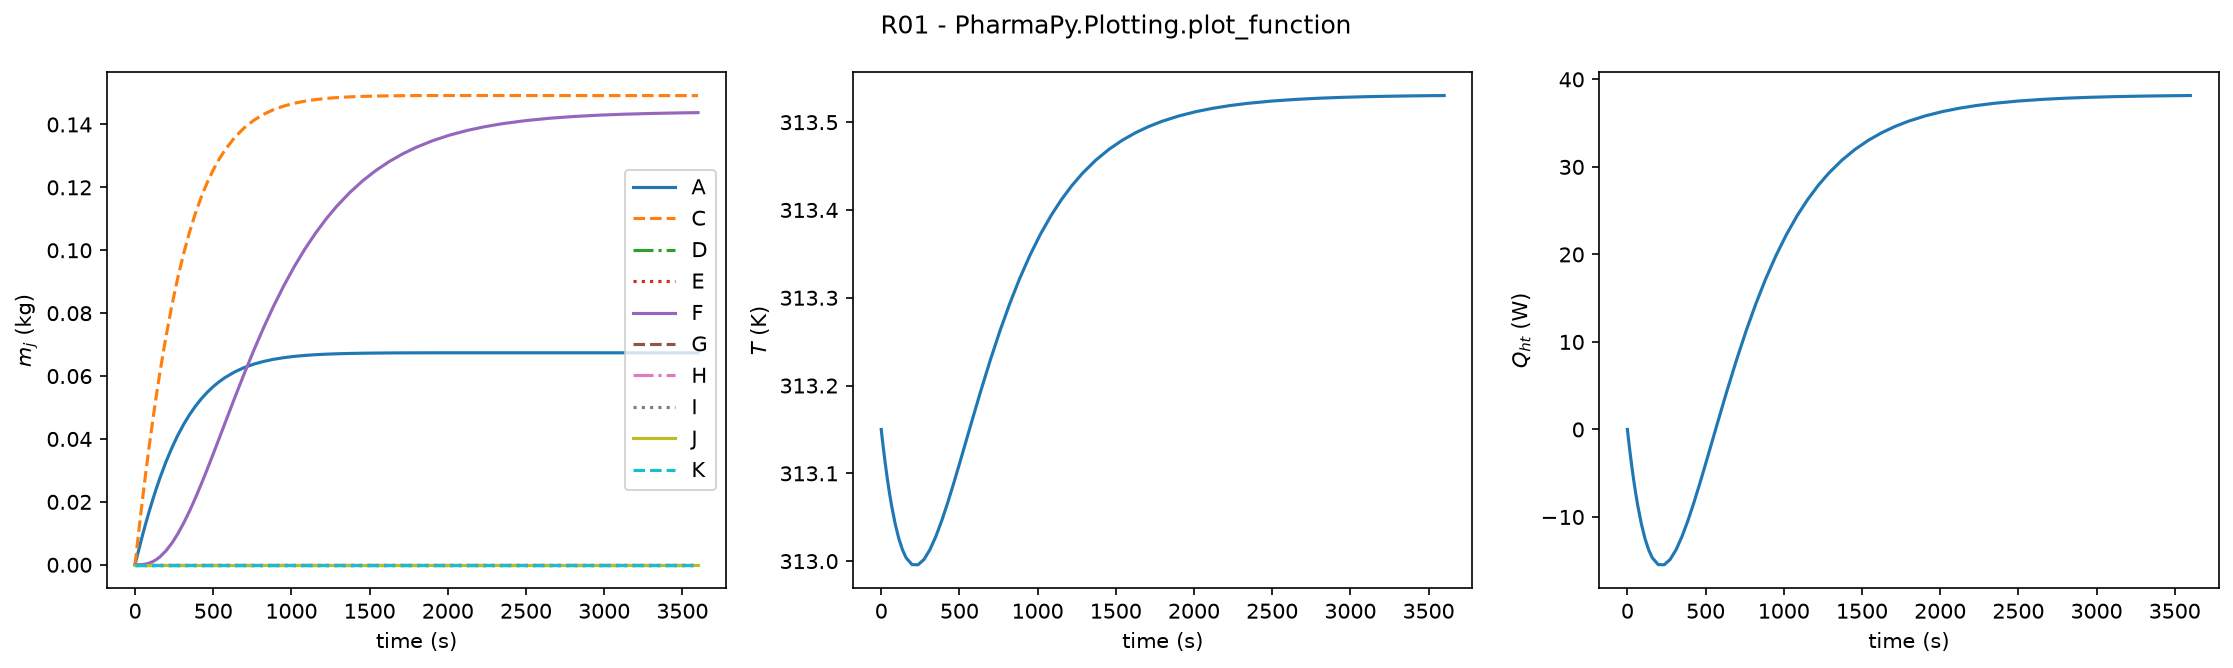
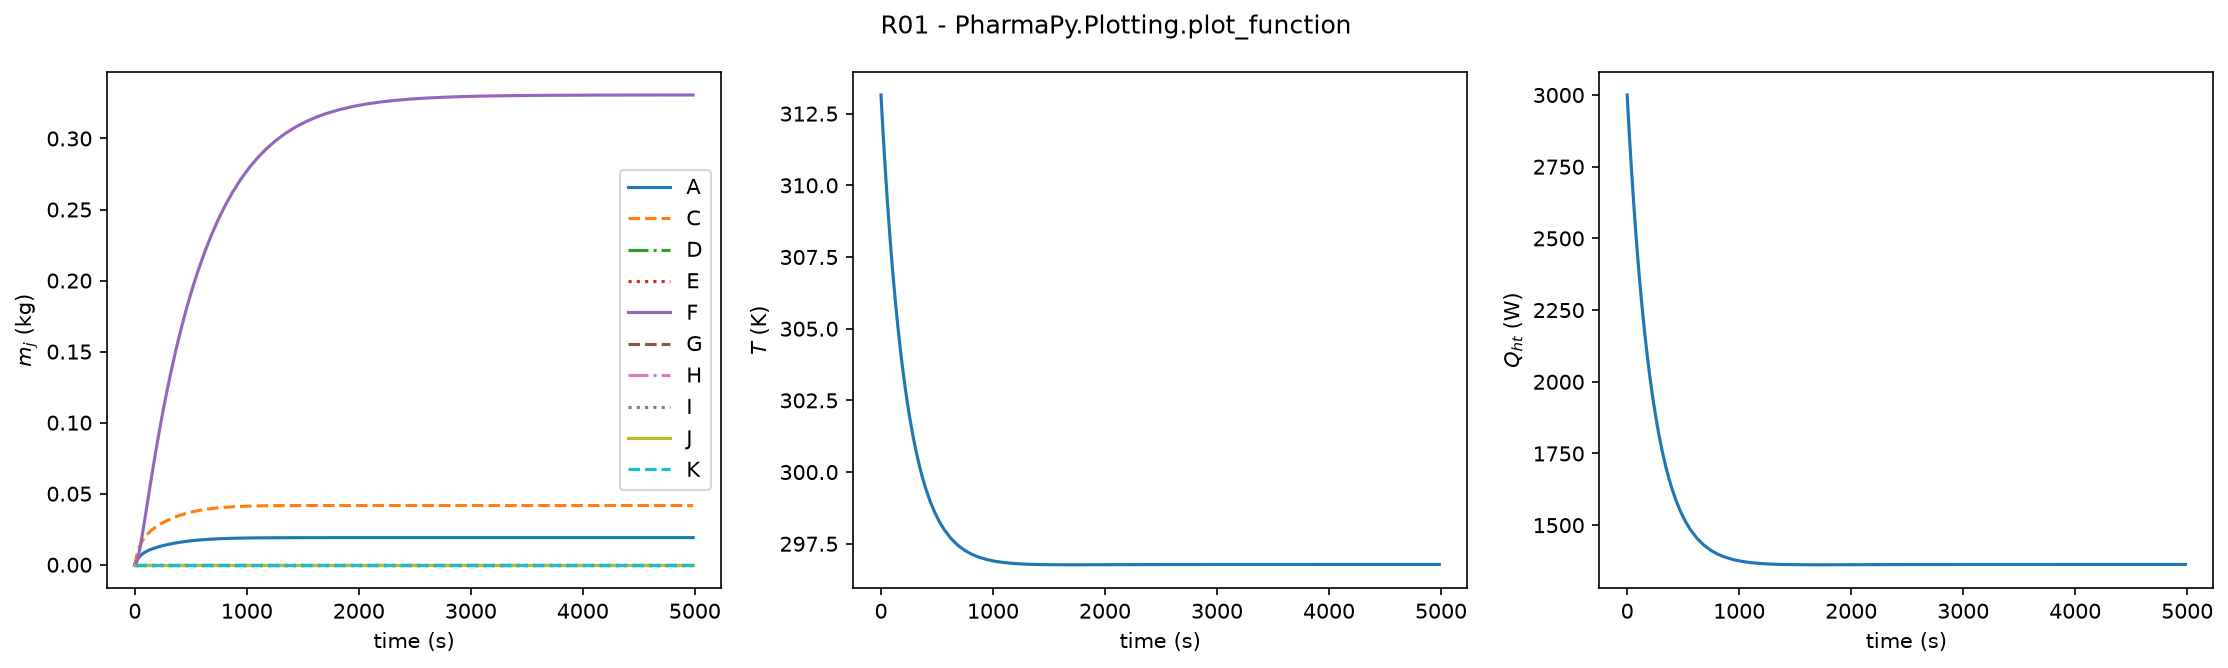
working R01H without specs

diff --git a/Project work/R01H.py/R01H.py b/Project work/R01H.py/R01H.py
@@ -69,9 +69,10 @@ DEFAULT_DATABASE_PATH = HERE / "compound_databaseActual.json"
 RESULTS_DIR = HERE / "results"
 
 # ---------------------------------------------------------------- settings
-REACTIONS = ["A + C --> F"]
+REACTIONS = ["2 A + C --> F"]
 RATE_CONSTANTS = np.array([1.0e-2])  # L/mol/s, at KINETICS_TEMP_REF
 ACTIVATION_ENERGIES = np.array([4.0e4])  # J/mol
+PARAMS_F_DUMMY = np.array([[1.0, 1.0]])
 KINETICS_TEMP_REF = 25+273.15 # K, rate constants above are quoted here
 HEAT_OF_REACTION = -3.0e3  # J/mol, negative = exothermic
 
@@ -83,7 +84,7 @@ FEED_TEMPERATURE = 313.15  # K
 FEED_A = {"A": 0.0207}  # mass fraction, ~0.33 mol/L of A
 FEED_B = {"C": 0.0459}  # mass fraction, ~0.33 mol/L of C
 
-REACTOR_MASS = 10.0  # kg, initial charge (~0.01 m**3 of water)
+REACTOR_VOLUME = 0.01  # m**3, initial liquid volume
 REACTOR_DIAMETER = 0.2  # m, jacket area = 4 V / D
 REACTOR_H_CONV = 1000.0  # W/m**2/K, vessel side
 INITIAL_TEMPERATURE = 313.15  # K
@@ -93,15 +94,38 @@ COOLANT_MASS_FLOW = 0.1  # kg/s
 COOLANT_TEMPERATURE = 10+273.15  # K
 COOLANT_H_CONV = 1000.0  # W/m**2/K, jacket side
 
-# 7.2 residence times: long enough that the end of the run is a steady
-# state (accumulation below STEADY_STATE_TOL of the throughput).
-RUNTIME = 3600.0  # s
+# Run for ten residence times so the result reaches the intended steady-state
+# region even when the reactor volume or feed flow rates change.
+NUM_RESIDENCE_TIMES = 10.0
 STEADY_STATE_TOL = 1.0e-2  # accumulation / inlet mass flow, per species
 
 # Validated categorical slots 1-4 (blue, orange, aqua, yellow).
 SERIES_COLORS = ("#2a78d6", "#eb6834", "#1baf7a", "#eda100")
 TEXT_PRIMARY = "#0b0b0b"
 TEXT_MUTED = "#52514e"
+
+
+def custom_rate_model(
+    conc: np.ndarray,
+    params_f: np.ndarray,
+) -> np.ndarray:
+    """Return ``exp(-[A]) [C]`` for the custom reaction model."""
+    conc = np.asarray(conc)
+    rate = np.exp(-conc[..., 0]) * conc[..., 1]
+    return rate[..., np.newaxis]
+
+
+def custom_rate_model_derivative(
+    conc: np.ndarray,
+    params_f: np.ndarray,
+) -> np.ndarray:
+    """Derivative of the custom rate model with respect to concentrations."""
+    conc = np.asarray(conc)
+    factor = np.exp(-conc[..., 0])
+    derivative = np.zeros(conc.shape[:-1] + (1, conc.shape[-1]))
+    derivative[..., 0, 0] = -factor * conc[..., 1]
+    derivative[..., 0, 1] = factor
+    return derivative[0] if conc.ndim == 1 else derivative
 
 
 # ---------------------------------------------------------------- builders
@@ -175,6 +199,46 @@ def make_feed(
         name_solv=solvent_name,
     )
 
+
+def build_kinetics(database_path: Path) -> RxnKinetics:
+    """Create the configured kinetics model across PharmaPy versions.
+
+    Some PharmaPy releases reference ``params_f`` before assigning it when a
+    custom kinetic model is supplied. The built-in model initializes the same
+    parameter state correctly, so its callbacks can be replaced after
+    construction for those releases.
+    """
+    kinetics_kwargs = dict(
+        path=str(database_path),
+        rxn_list=REACTIONS,
+        k_params=RATE_CONSTANTS,
+        ea_params=ACTIVATION_ENERGIES,
+        params_f=PARAMS_F_DUMMY,
+        df_dstates=custom_rate_model_derivative,
+        temp_ref=KINETICS_TEMP_REF,
+        delta_hrxn=HEAT_OF_REACTION,
+    )
+    try:
+        return RxnKinetics(
+            **kinetics_kwargs,
+            kinetic_model=custom_rate_model,
+        )
+    except UnboundLocalError as error:
+        if "params_f" not in str(error):
+            raise
+
+    kinetics = RxnKinetics(**kinetics_kwargs)
+    kinetics.kinetic_model = custom_rate_model
+    kinetics.df_dstates = custom_rate_model_derivative
+    return kinetics
+
+
+def reactor_residence_time(reactor: ContinuousReactor) -> float:
+    """Return the initial residence time implied by the configured volume."""
+    initial_mass = float(reactor.Phases.Liquids[0].mass)
+    return initial_mass / (FLOW_A + FLOW_B)
+
+
 def build_reactor(
     database_path: Path | str = DEFAULT_DATABASE_PATH,
 ) -> ContinuousReactor:
@@ -193,17 +257,10 @@ def build_reactor(
         temp=INITIAL_TEMPERATURE,
         mass_frac=named_mass_fraction(INITIAL_REACTOR, species_names,
                                       solvent_name),
-        mass=REACTOR_MASS,
+        vol=REACTOR_VOLUME,
         name_solv=solvent_name,
     )
-    reactor.RxnKinetics = RxnKinetics(
-        path=str(database_path),
-        rxn_list=REACTIONS,
-        k_params=RATE_CONSTANTS,
-        ea_params=ACTIVATION_ENERGIES,
-        temp_ref=KINETICS_TEMP_REF,
-        delta_hrxn=HEAT_OF_REACTION,
-    )
+    reactor.RxnKinetics = build_kinetics(database_path)
     reactor.Utility = CoolingWater(
         mass_flow=COOLANT_MASS_FLOW,
         temp_in=COOLANT_TEMPERATURE,
@@ -218,10 +275,12 @@ def build_reactor(
 
 def run_reactor(
     database_path: Path | str = DEFAULT_DATABASE_PATH,
-    runtime: float = RUNTIME,
+    runtime: float | None = None,
 ) -> ContinuousReactor:
     """Solve R01 and return it with ``result`` populated."""
     reactor = build_reactor(database_path)
+    if runtime is None:
+        runtime = NUM_RESIDENCE_TIMES * reactor_residence_time(reactor)
     reactor.solve_unit(runtime=runtime, verbose=False)
     return reactor
 
@@ -432,7 +491,8 @@ def settings_rows(reactor: ContinuousReactor) -> list[tuple[str, str, str]]:
                 + " (mass frac.)")
 
     initial_vol = float(np.ravel(reactor.result.vessel_vol)[0])
-    tau = REACTOR_MASS / (FLOW_A + FLOW_B)
+    initial_mass = float(reactor.Phases.Liquids[0].mass)
+    tau = reactor_residence_time(reactor)
     area = 4 * initial_vol / REACTOR_DIAMETER
     u_ht = 1.0 / (1.0 / REACTOR_H_CONV + 1.0 / COOLANT_H_CONV)
     final = reactor.result
@@ -446,8 +506,8 @@ def settings_rows(reactor: ContinuousReactor) -> list[tuple[str, str, str]]:
 
     return [
         ("Initial conditions", "Temperature", f"{INITIAL_TEMPERATURE:g} K"),
-        ("Initial conditions", "Mass",
-         f"{REACTOR_MASS:g} kg ({initial_vol:.4g} m³)"),
+        ("Initial conditions", "Volume",
+         f"{initial_vol:.4g} m³ ({initial_mass:g} kg derived)"),
         ("Initial conditions", "Charge", composition(INITIAL_REACTOR)),
         ("Feeds", "Feed A", f"{FLOW_A:g} kg/s, {composition(FEED_A)}"),
         ("Feeds", "Feed B", f"{FLOW_B:g} kg/s, {composition(FEED_B)}"),
@@ -464,7 +524,8 @@ def settings_rows(reactor: ContinuousReactor) -> list[tuple[str, str, str]]:
                               f"{COOLANT_TEMPERATURE:g} K"),
         ("Jacket", "U · A", f"{u_ht:g} W/m²/K × {area:g} m² "
                             f"= {u_ht * area:g} W/K"),
-        ("Run", "Runtime", f"{RUNTIME:g} s"),
+        ("Run", "Runtime",
+         f"{NUM_RESIDENCE_TIMES * tau:g} s"),
         ("Run", "Integrator", type(reactor.integrator).__name__),
         ("Run", "Final T", f"{np.ravel(final.global_temp)[-1]:.3f} K"),
         ("Run", "Final [mass frac.]",
@@ -661,7 +722,7 @@ if __name__ == "__main__":
     gap = steady_state_gap(balances)
     if gap >= STEADY_STATE_TOL:
         print(f"  WARNING: accumulation is {gap:.2%} of the inlet flow; "
-              "increase RUNTIME to reach steady state.")
+              "increase NUM_RESIDENCE_TIMES to reach steady state.")
 
     print("\nHeat terms at the final time (W):")
     for name, values in balances.heat.items():
